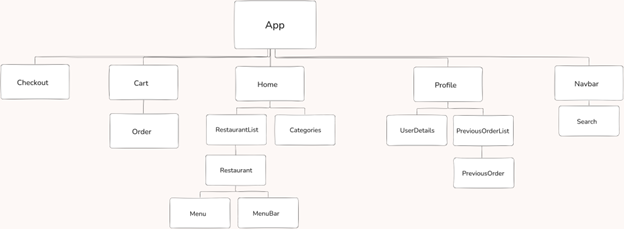
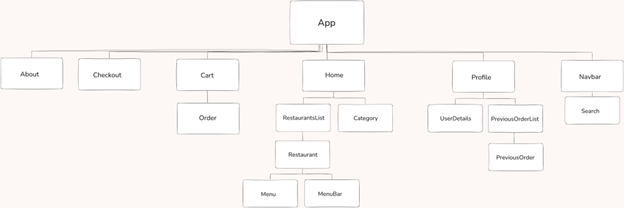
updating ERD

diff --git a/luqma/src/components/Category.jsx b/luqma/src/components/Category.jsx
@@ -1,0 +1,5 @@
+const Category = () => {
+  return <>
+  </>
+}
+export default Category

diff --git a/README.md b/README.md
@@ -20,16 +20,16 @@ A first step for Luqma project to say the light was planning, a critical step to
 
 - **Entity Relationship Diagram (ERD)**: the main guide of schema and database managment. <br>
 
-  <img src="./assets/Luqma-ER.png" width="45%" height="200px" alt="Logo">
+  <img src="./assets/Luqma-ER.png" width="50%" height="200px" alt="Logo">
 
 
 - **Component Hierarchy Diagram**: the cornerstone of building the frontend, designed with Excalidraw. <br>
 
-  <img src="./assets/component-hirearchy-diagram.png" width="45%" height="200px" alt="Logo">
+  <img src="./assets/diagram.png" width="50%" height="200px" alt="Logo">
 
 
 - **Collaborative Board**: A board shared among team memebers to assign tasks and track prograss. | 
-[Notion](https://www.notion.so/Tasks-24765872718a80178886d12cdcce7fa5](https://stellar-ground-30c.notion.site/Tasks-24765872718a80178886d12cdcce7fa5) |
+[Notion](https://stellar-ground-30c.notion.site/Tasks-24765872718a80178886d12cdcce7fa5) |
 
 Following the planning, the development has mainly resulted in 2 main outcomes, a front-end and a backend developed and connected using the MERN Stack (MongoDB, Express, React, Node.js). <br>
 
